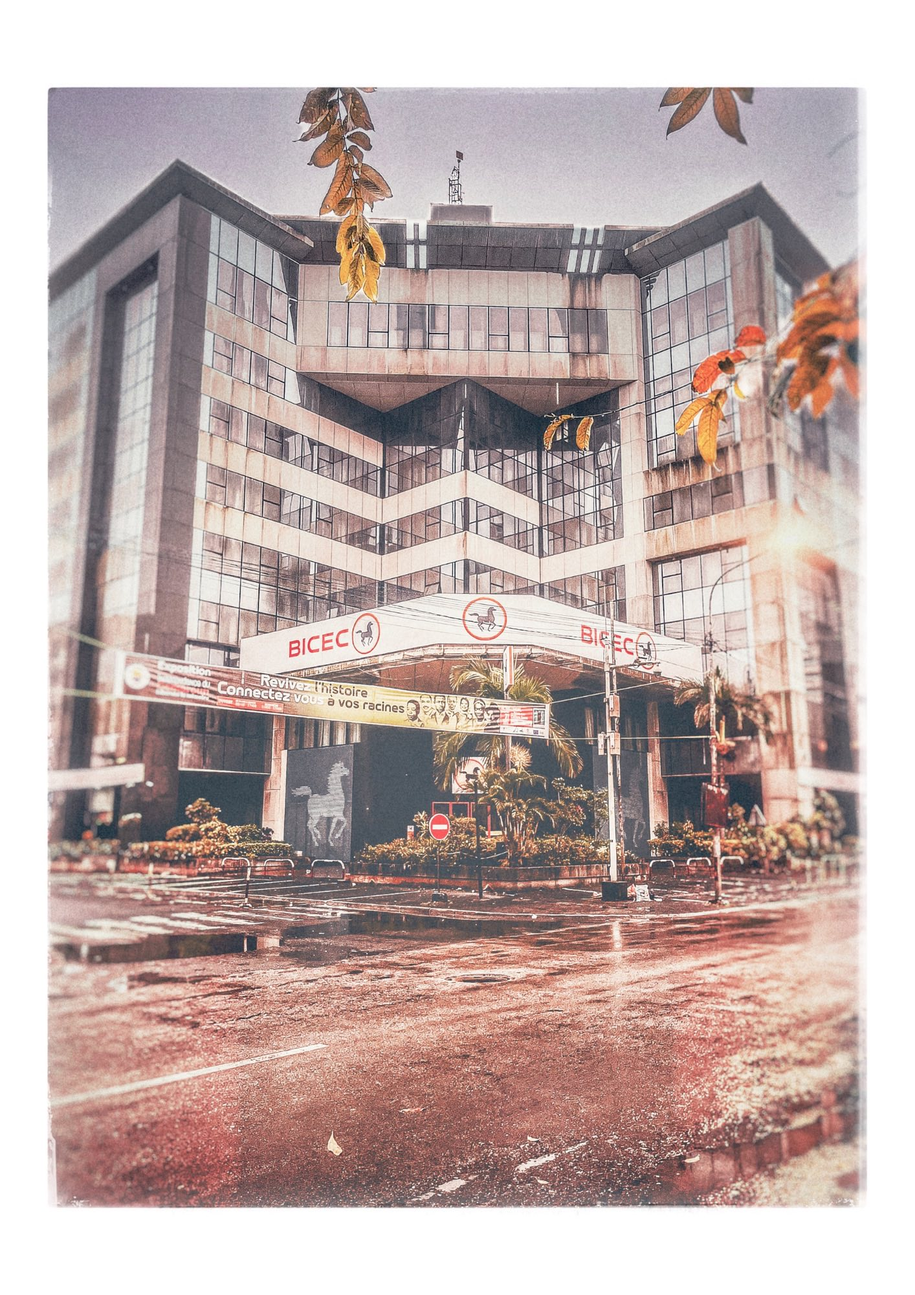
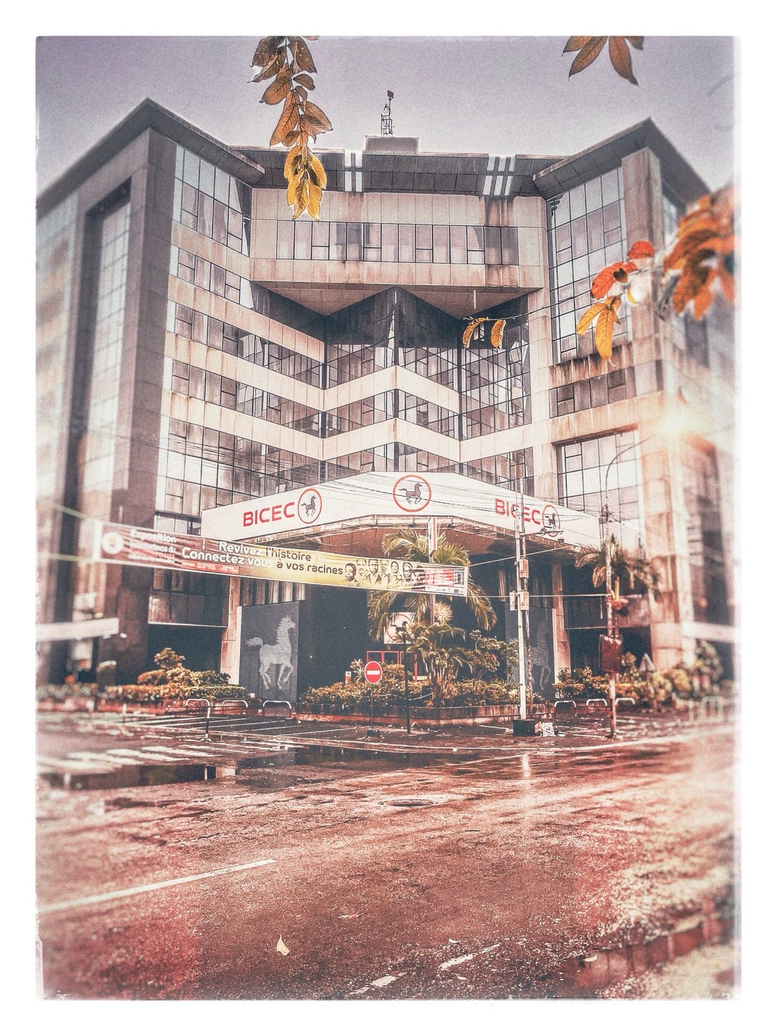
fix(shop): sépare vignette (carte) et photo complète (fiche produit)
Les *-vignette.jpg (recadrage uniforme fourni) ne servent plus qu'aux
cartes de la grille boutique et à l'aperçu accueil. Le clic sur une
carte ouvre la fiche produit.html avec la photo complète d'origine
(*-237.jpg, restaurée depuis l'historique git — le dossier local
originaux/ avait disparu entre-temps).

Ajoute le champ `thumb` dans shop-data.js pour cette distinction ;
`images` continue d'alimenter le carrousel avec les photos complètes.

diff --git a/apps/site/shop.html b/apps/site/shop.html
@@ -116,7 +116,7 @@
         <article class="product-card" data-category="manga" data-product-id="manga-miroir-eau">
           <div class="product-card-badge special">Disponible</div>
           <div class="product-card-img-wrap">
-            <img src="images/shop/manga-miroir-eau-237.jpg" alt="Tableau Remix Miroir d’Eau & Ciel Manga" loading="lazy" class="product-img">
+            <img src="images/shop/manga-miroir-eau-vignette.jpg" alt="Tableau Remix Miroir d’Eau & Ciel Manga" loading="lazy" class="product-img">
             <button class="product-quick-view-btn view-product-btn" aria-label="Voir l'article">
               <span>Voir l'article →</span>
             </button>
@@ -142,7 +142,7 @@
         <article class="product-card" data-category="editions" data-product-id="photo-rue-crepuscule">
           <div class="product-card-badge special">Disponible</div>
           <div class="product-card-img-wrap">
-            <img src="images/shop/rue-crepuscule-237.jpg" alt="Photographie New-Bell au Crépuscule" loading="lazy" class="product-img">
+            <img src="images/shop/rue-crepuscule-vignette.jpg" alt="Photographie New-Bell au Crépuscule" loading="lazy" class="product-img">
             <button class="product-quick-view-btn view-product-btn" aria-label="Voir l'article">
               <span>Voir l'article →</span>
             </button>
@@ -168,7 +168,7 @@
         <article class="product-card" data-category="editions" data-product-id="photo-rue-coucher-soleil">
           <div class="product-card-badge special">Disponible</div>
           <div class="product-card-img-wrap">
-            <img src="images/shop/rue-coucher-soleil-237.jpg" alt="Photographie Rue au Coucher de Soleil" loading="lazy" class="product-img">
+            <img src="images/shop/rue-coucher-soleil-vignette.jpg" alt="Photographie Rue au Coucher de Soleil" loading="lazy" class="product-img">
             <button class="product-quick-view-btn view-product-btn" aria-label="Voir l'article">
               <span>Voir l'article →</span>
             </button>
@@ -194,7 +194,7 @@
         <article class="product-card" data-category="editions" data-product-id="photo-facade-bicec">
           <div class="product-card-badge special">Disponible</div>
           <div class="product-card-img-wrap">
-            <img src="images/shop/facade-bicec-237.jpg" alt="Photographie Façade BICEC" loading="lazy" class="product-img">
+            <img src="images/shop/facade-bicec-vignette.jpg" alt="Photographie Façade BICEC" loading="lazy" class="product-img">
             <button class="product-quick-view-btn view-product-btn" aria-label="Voir l'article">
               <span>Voir l'article →</span>
             </button>
@@ -220,7 +220,7 @@
         <article class="product-card" data-category="editions" data-product-id="photo-carrefour-nocturne">
           <div class="product-card-badge special">Disponible</div>
           <div class="product-card-img-wrap">
-            <img src="images/shop/carrefour-nocturne-237.jpg" alt="Photographie Carrefour Nocturne" loading="lazy" class="product-img">
+            <img src="images/shop/carrefour-nocturne-vignette.jpg" alt="Photographie Carrefour Nocturne" loading="lazy" class="product-img">
             <button class="product-quick-view-btn view-product-btn" aria-label="Voir l'article">
               <span>Voir l'article →</span>
             </button>
@@ -246,7 +246,7 @@
         <article class="product-card" data-category="editions" data-product-id="photo-rue-mouvement">
           <div class="product-card-badge special">Disponible</div>
           <div class="product-card-img-wrap">
-            <img src="images/shop/rue-mouvement-237.jpg" alt="Photographie Rue en Mouvement, effet anaglyphe" loading="lazy" class="product-img">
+            <img src="images/shop/rue-mouvement-vignette.jpg" alt="Photographie Rue en Mouvement, effet anaglyphe" loading="lazy" class="product-img">
             <button class="product-quick-view-btn view-product-btn" aria-label="Voir l'article">
               <span>Voir l'article →</span>
             </button>

diff --git a/apps/site/shop-data.js b/apps/site/shop-data.js
@@ -2,8 +2,11 @@
 // Partagé entre shop.html (grille filtrable) et produit.html (fiche détaillée).
 //
 // Pour chaque article :
-//   images       : tableau de chemins. La fiche produit affiche un carrousel
-//                  (flèches ← → uniquement s'il y a plus d'une image).
+//   thumb        : image de la carte dans la grille boutique (vignette recadrée
+//                  uniquement — jamais utilisée ailleurs).
+//   images       : tableau de chemins vers les photos complètes. La fiche
+//                  produit (clic sur la carte) affiche un carrousel de ces
+//                  images (flèches ← → uniquement s'il y en a plus d'une).
 //   description  : texte libre. Laisser "" tant que le texte n'est pas fourni ;
 //                  le bloc reste masqué sur la fiche.
 //   specs        : liste de caractéristiques. Laisser [] pour masquer le bloc.
@@ -11,6 +14,7 @@
 window.VM_PRODUCTS = {
   'manga-miroir-eau': {
     id: 'manga-miroir-eau',
+    thumb: 'images/shop/manga-miroir-eau-vignette.jpg',
     title: 'Tableau Remix — Miroir d’Eau & Ciel Manga',
     category: 'manga',
     categoryLabel: 'Manga · Tableau Remix',
@@ -30,6 +34,7 @@ window.VM_PRODUCTS = {
   },
   'photo-rue-crepuscule': {
     id: 'photo-rue-crepuscule',
+    thumb: 'images/shop/rue-crepuscule-vignette.jpg',
     title: 'New-Bell au Crépuscule',
     category: 'editions',
     categoryLabel: 'Édition Limitée · Photographie',
@@ -48,6 +53,7 @@ window.VM_PRODUCTS = {
   },
   'photo-rue-coucher-soleil': {
     id: 'photo-rue-coucher-soleil',
+    thumb: 'images/shop/rue-coucher-soleil-vignette.jpg',
     title: 'Rue au Coucher de Soleil',
     category: 'editions',
     categoryLabel: 'Édition Limitée · Photographie',
@@ -66,6 +72,7 @@ window.VM_PRODUCTS = {
   },
   'photo-facade-bicec': {
     id: 'photo-facade-bicec',
+    thumb: 'images/shop/facade-bicec-vignette.jpg',
     title: 'Façade BICEC',
     category: 'editions',
     categoryLabel: 'Édition Limitée · Photographie',
@@ -84,6 +91,7 @@ window.VM_PRODUCTS = {
   },
   'photo-carrefour-nocturne': {
     id: 'photo-carrefour-nocturne',
+    thumb: 'images/shop/carrefour-nocturne-vignette.jpg',
     title: 'Carrefour Nocturne',
     category: 'editions',
     categoryLabel: 'Édition Limitée · Photographie',
@@ -102,6 +110,7 @@ window.VM_PRODUCTS = {
   },
   'photo-rue-mouvement': {
     id: 'photo-rue-mouvement',
+    thumb: 'images/shop/rue-mouvement-vignette.jpg',
     title: 'Rue en Mouvement',
     category: 'editions',
     categoryLabel: 'Édition Limitée · Photographie',

diff --git a/apps/site/index.html b/apps/site/index.html
@@ -480,7 +480,7 @@
 
       <div class="boutique-grid">
         <div class="boutique-item">
-          <img src="images/shop/manga-miroir-eau-237.jpg" alt="Tableau Remix Miroir d’Eau & Ciel Manga" class="boutique-img">
+          <img src="images/shop/manga-miroir-eau-vignette.jpg" alt="Tableau Remix Miroir d’Eau & Ciel Manga" class="boutique-img">
           <div class="boutique-info">
             <h3>Miroir d’Eau & Ciel Manga</h3>
             <p class="boutique-type">Manga · Tableau Remix</p>
